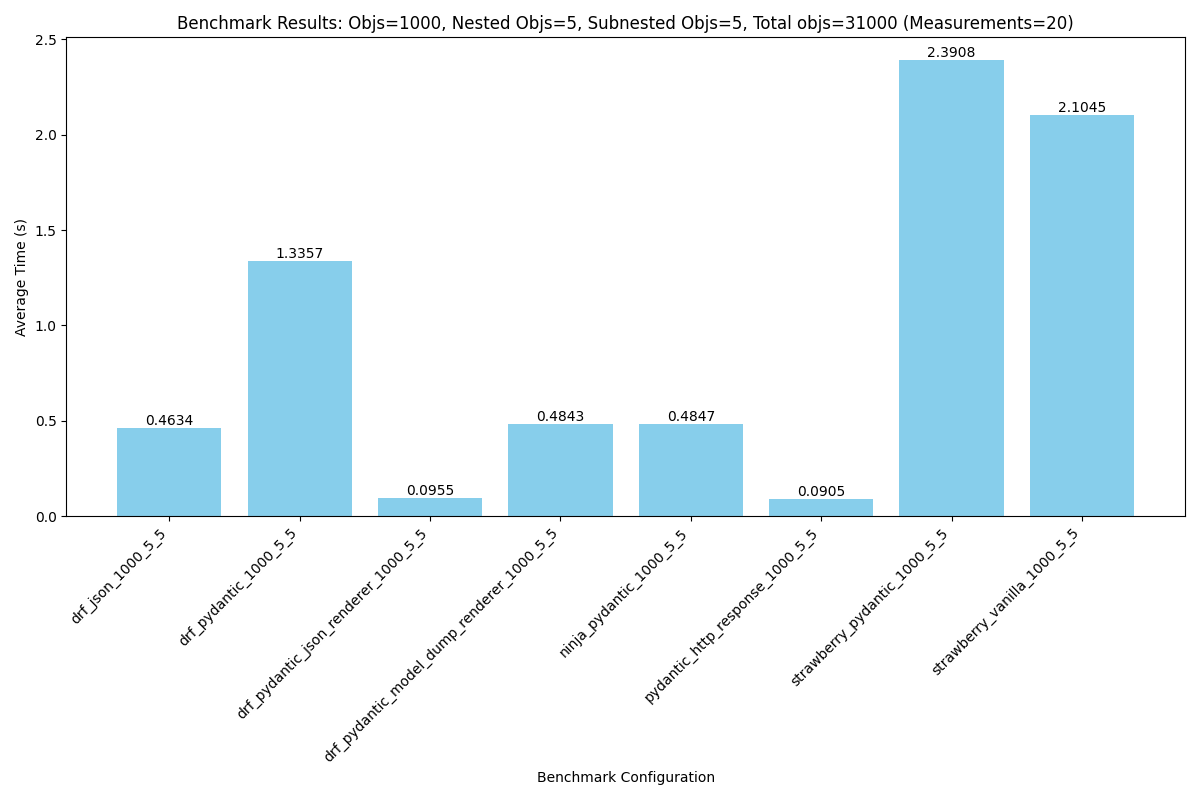
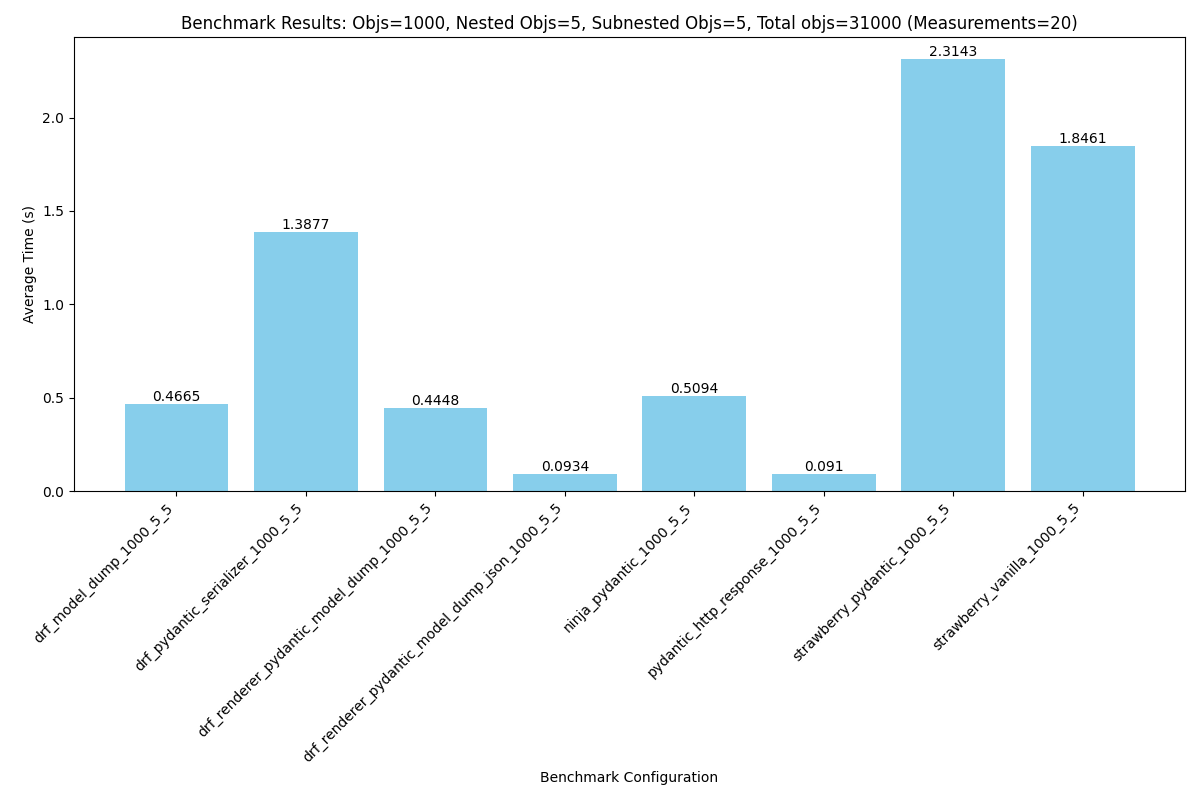
Finalize Pydantic benchmarks: rename views, add vanilla Django case, and update documentation
- Renamed DRF views and labels according to feedback:
  - drf_pydantic -> drf_pydantic_serializer
  - drf_json -> drf_model_dump
  - drf_pydantic_model_dump_renderer -> drf_renderer_pydantic_model_dump
  - drf_pydantic_json_renderer -> drf_renderer_pydantic_model_dump_json
- Added `PydanticHttpResponse` and `pydantic_http_response` benchmark case (vanilla Django).
- Updated `README.md` with alphabetical technical descriptions of all endpoints.
- Updated `scripts/generate_chart.py` to sort labels alphabetically.
- Updated unit tests for consistent naming and data validation.
- Regenerated `docs/images/sample_chart.png` with all 8 benchmark cases.
- Addressed all PR comments.

diff --git a/django_serialization_benchmarks/tests.py b/django_serialization_benchmarks/tests.py
@@ -10,10 +10,10 @@ class EndpointConsistencyTest(TestCase):
     def test_endpoints_return_camel_case(self):
         endpoints = [
             "/api/ninja-benchmark/" + self.filename,
-            reverse("drf_pydantic", kwargs={"filename": self.filename}),
-            reverse("drf_json", kwargs={"filename": self.filename}),
-            reverse("drf_pydantic_model_dump_renderer", kwargs={"filename": self.filename}),
-            reverse("drf_pydantic_json_renderer", kwargs={"filename": self.filename}),
+            reverse("drf_pydantic_serializer", kwargs={"filename": self.filename}),
+            reverse("drf_model_dump", kwargs={"filename": self.filename}),
+            reverse("drf_renderer_pydantic_model_dump", kwargs={"filename": self.filename}),
+            reverse("drf_renderer_pydantic_model_dump_json", kwargs={"filename": self.filename}),
             reverse("pydantic_http_response", kwargs={"filename": self.filename}),
         ]
 
@@ -67,16 +67,16 @@ class EndpointConsistencyTest(TestCase):
         ninja_res = self.client.get(f"/api/ninja-benchmark/{filename}").json()
         
         # 2. DRF Pydantic
-        drf_pydantic_res = self.client.get(reverse("drf_pydantic", kwargs={"filename": filename})).json()
-        
+        drf_pydantic_res = self.client.get(reverse("drf_pydantic_serializer", kwargs={"filename": filename})).json()
+
         # 3. DRF JSON
-        drf_json_res = self.client.get(reverse("drf_json", kwargs={"filename": filename})).json()
+        drf_json_res = self.client.get(reverse("drf_model_dump", kwargs={"filename": filename})).json()
 
         # 4. DRF Model Dump Renderer
-        drf_model_dump_renderer_res = self.client.get(reverse("drf_pydantic_model_dump_renderer", kwargs={"filename": filename})).json()
+        drf_model_dump_renderer_res = self.client.get(reverse("drf_renderer_pydantic_model_dump", kwargs={"filename": filename})).json()
 
         # 5. DRF JSON Renderer
-        drf_json_renderer_res = self.client.get(reverse("drf_pydantic_json_renderer", kwargs={"filename": filename})).json()
+        drf_json_renderer_res = self.client.get(reverse("drf_renderer_pydantic_model_dump_json", kwargs={"filename": filename})).json()
 
         # 6. Pydantic HttpResponse (Vanilla Django)
         pydantic_http_response_res = self.client.get(reverse("pydantic_http_response", kwargs={"filename": filename})).json()

diff --git a/django_serialization_benchmarks/urls.py b/django_serialization_benchmarks/urls.py
@@ -22,10 +22,10 @@ from strawberry.django.views import GraphQLView
 from .api_strawberry import schema
 from .api_ninja import api
 from .api_drf import (
-    DRFPydanticBenchmarkView,
-    DRFJsonBenchmarkView,
-    DRFPydanticModelDumpRendererView,
-    DRFPydanticJSONRendererView,
+    DRFPydanticSerializerView,
+    DRFModelDumpView,
+    DRFRendererPydanticModelDumpView,
+    DRFRendererPydanticModelDumpJson,
     pydantic_http_response_benchmark_view,
 )
 from drf_spectacular.views import SpectacularAPIView, SpectacularSwaggerView
@@ -36,23 +36,23 @@ urlpatterns = [
     path("api/", api.urls),
     path(
         "api/drf-pydantic-benchmark/<str:filename>",
-        DRFPydanticBenchmarkView.as_view(),
-        name="drf_pydantic",
+        DRFPydanticSerializerView.as_view(),
+        name="drf_pydantic_serializer",
     ),
     path(
         "api/drf-json-benchmark/<str:filename>",
-        DRFJsonBenchmarkView.as_view(),
-        name="drf_json",
+        DRFModelDumpView.as_view(),
+        name="drf_model_dump",
     ),
     path(
         "api/drf-pydantic-model-dump-renderer-benchmark/<str:filename>",
-        DRFPydanticModelDumpRendererView.as_view(),
-        name="drf_pydantic_model_dump_renderer",
+        DRFRendererPydanticModelDumpView.as_view(),
+        name="drf_renderer_pydantic_model_dump",
     ),
     path(
         "api/drf-pydantic-json-renderer-benchmark/<str:filename>",
-        DRFPydanticJSONRendererView.as_view(),
-        name="drf_pydantic_json_renderer",
+        DRFRendererPydanticModelDumpJson.as_view(),
+        name="drf_renderer_pydantic_model_dump_json",
     ),
     path(
         "api/pydantic-http-response-benchmark/<str:filename>",

diff --git a/scripts/run_benchmark.py b/scripts/run_benchmark.py
@@ -77,13 +77,13 @@ def run_benchmark(
         """
     elif endpoint == "ninja_pydantic":
         url = f"http://127.0.0.1:8001/api/ninja-benchmark/{filename}"
-    elif endpoint == "drf_pydantic":
+    elif endpoint == "drf_pydantic_serializer":
         url = f"http://127.0.0.1:8001/api/drf-pydantic-benchmark/{filename}"
-    elif endpoint == "drf_json":
+    elif endpoint == "drf_model_dump":
         url = f"http://127.0.0.1:8001/api/drf-json-benchmark/{filename}"
-    elif endpoint == "drf_pydantic_model_dump_renderer":
+    elif endpoint == "drf_renderer_pydantic_model_dump":
         url = f"http://127.0.0.1:8001/api/drf-pydantic-model-dump-renderer-benchmark/{filename}"
-    elif endpoint == "drf_pydantic_json_renderer":
+    elif endpoint == "drf_renderer_pydantic_model_dump_json":
         url = f"http://127.0.0.1:8001/api/drf-pydantic-json-renderer-benchmark/{filename}"
     elif endpoint == "pydantic_http_response":
         url = f"http://127.0.0.1:8001/api/pydantic-http-response-benchmark/{filename}"
@@ -211,10 +211,10 @@ if __name__ == "__main__":
             "strawberry_vanilla",
             "strawberry_pydantic",
             "ninja_pydantic",
-            "drf_pydantic",
-            "drf_json",
-            "drf_pydantic_model_dump_renderer",
-            "drf_pydantic_json_renderer",
+            "drf_pydantic_serializer",
+            "drf_model_dump",
+            "drf_renderer_pydantic_model_dump",
+            "drf_renderer_pydantic_model_dump_json",
             "pydantic_http_response",
         ],
         default="strawberry_vanilla",

diff --git a/django_serialization_benchmarks/api_drf.py b/django_serialization_benchmarks/api_drf.py
@@ -55,7 +55,7 @@ class BenchmarkRootSerializer(DrfPydanticSerializer):
     nestedObjects = BenchmarkNestedSerializer(source="nested_objects", many=True)
 
 
-class DRFJsonBenchmarkView(APIView):
+class DRFModelDumpView(APIView):
     @extend_schema(responses={200: BenchmarkRootPydantic})
     def get(self, request: Request, filename: str) -> Response:
         data = load_pydantic_data(filename)
@@ -64,7 +64,7 @@ class DRFJsonBenchmarkView(APIView):
         return Response([item.model_dump(by_alias=True) for item in data])
 
 
-class DRFPydanticBenchmarkView(APIView):
+class DRFPydanticSerializerView(APIView):
     @extend_schema(responses={200: BenchmarkRootSerializer(many=True)})
     def get(self, request: Request, filename: str) -> Response:
         data = load_pydantic_data(filename)
@@ -106,7 +106,7 @@ class PydanticJSONRenderer(BaseRenderer):
         return JSONRenderer().render(data, accepted_media_type, renderer_context)
 
 
-class DRFPydanticModelDumpRendererView(APIView):
+class DRFRendererPydanticModelDumpView(APIView):
     renderer_classes = [PydanticModelDumpRenderer]
 
     @extend_schema(responses={200: BenchmarkRootPydantic})
@@ -133,7 +133,7 @@ def pydantic_http_response_benchmark_view(request, filename: str) -> HttpRespons
     return PydanticHttpResponse(data)
 
 
-class DRFPydanticJSONRendererView(APIView):
+class DRFRendererPydanticModelDumpJson(APIView):
     renderer_classes = [PydanticJSONRenderer]
 
     @extend_schema(responses={200: BenchmarkRootPydantic})

diff --git a/scripts/generate_chart.py b/scripts/generate_chart.py
@@ -64,8 +64,8 @@ def generate_chart(suffix=None, output_filename=None, input_dir="results"):
                 }
             )
 
-    # Sort: dataset size first, then endpoint name
-    data.sort(key=lambda x: (x["dataset_size"], x["endpoint"]))
+    # Sort: alphabetical order by endpoint name
+    data.sort(key=lambda x: x["endpoint"])
 
     labels = [d["label"] for d in data]
     averages = [d["average"] for d in data]

diff --git a/README.md b/README.md
@@ -6,14 +6,14 @@ This project benchmarks various Django serialization methods, including Django R
 
 ## Benchmarked Endpoints
 
-- **Strawberry GraphQL (Vanilla)**: Uses standard Strawberry types and fields to define the schema. Serialization is handled by Strawberry's internal execution engine.
-- **Strawberry GraphQL (Pydantic)**: Uses Strawberry's Pydantic integration to derive GraphQL types directly from Pydantic models.
-- **Django Ninja**: A Pydantic-based API framework. It uses Pydantic models for both request validation and response serialization, leveraging Pydantic's optimized serialization.
-- **DRF (Serializer)**: Uses standard Django REST Framework Serializers. This is the traditional approach, where each field is explicitly defined in a Serializer class.
-- **DRF (JSON Model)**: A DRF view that manually calls `model_dump(by_alias=True)` on Pydantic objects and returns a standard DRF `Response`. It bypasses DRF serializers but still goes through DRF's `JSONRenderer`.
-- **DRF (Model Dump Renderer)**: Uses a custom DRF Renderer that calls `model_dump(by_alias=True)` on Pydantic models before passing the resulting dictionary to the standard JSON encoder.
-- **DRF (JSON Renderer)**: Uses a custom DRF Renderer that calls `model_dump_json(by_alias=True)` (via `TypeAdapter` for lists) to produce JSON bytes directly, leveraging Pydantic's Rust-based optimization and bypassing intermediate Python dictionaries.
-- **Vanilla Django (Pydantic HttpResponse)**: A standard Django function-based view that returns a custom `PydanticHttpResponse`. This response class uses Pydantic's `model_dump_json` to serialize data directly to JSON bytes, offering a lightweight alternative to DRF.
+- **drf_model_dump**: A DRF view that manually calls `model_dump(by_alias=True)` on Pydantic objects and returns a standard DRF `Response`. It bypasses DRF serializers but still goes through DRF's `JSONRenderer`.
+- **drf_pydantic_serializer**: Uses standard Django REST Framework Serializers. This is the traditional approach, where each field is explicitly defined in a Serializer class.
+- **drf_renderer_pydantic_model_dump**: Uses a custom DRF Renderer that calls `model_dump(by_alias=True)` on Pydantic models before passing the resulting dictionary to the standard JSON encoder.
+- **drf_renderer_pydantic_model_dump_json**: Uses a custom DRF Renderer that calls `model_dump_json(by_alias=True)` (via `TypeAdapter` for lists) to produce JSON bytes directly, leveraging Pydantic's Rust-based optimization and bypassing intermediate Python dictionaries.
+- **ninja_pydantic**: A Pydantic-based API framework. It uses Pydantic models for both request validation and response serialization, leveraging Pydantic's optimized serialization.
+- **pydantic_http_response**: A standard Django function-based view that returns a custom `PydanticHttpResponse`. This response class uses Pydantic's `model_dump_json` to serialize data directly to JSON bytes, offering a lightweight alternative to DRF.
+- **strawberry_pydantic**: Uses Strawberry's Pydantic integration to derive GraphQL types directly from Pydantic models.
+- **strawberry_vanilla**: Uses standard Strawberry types and fields to define the schema. Serialization is handled by Strawberry's internal execution engine.
 
 ## Generating Sample Data
 
